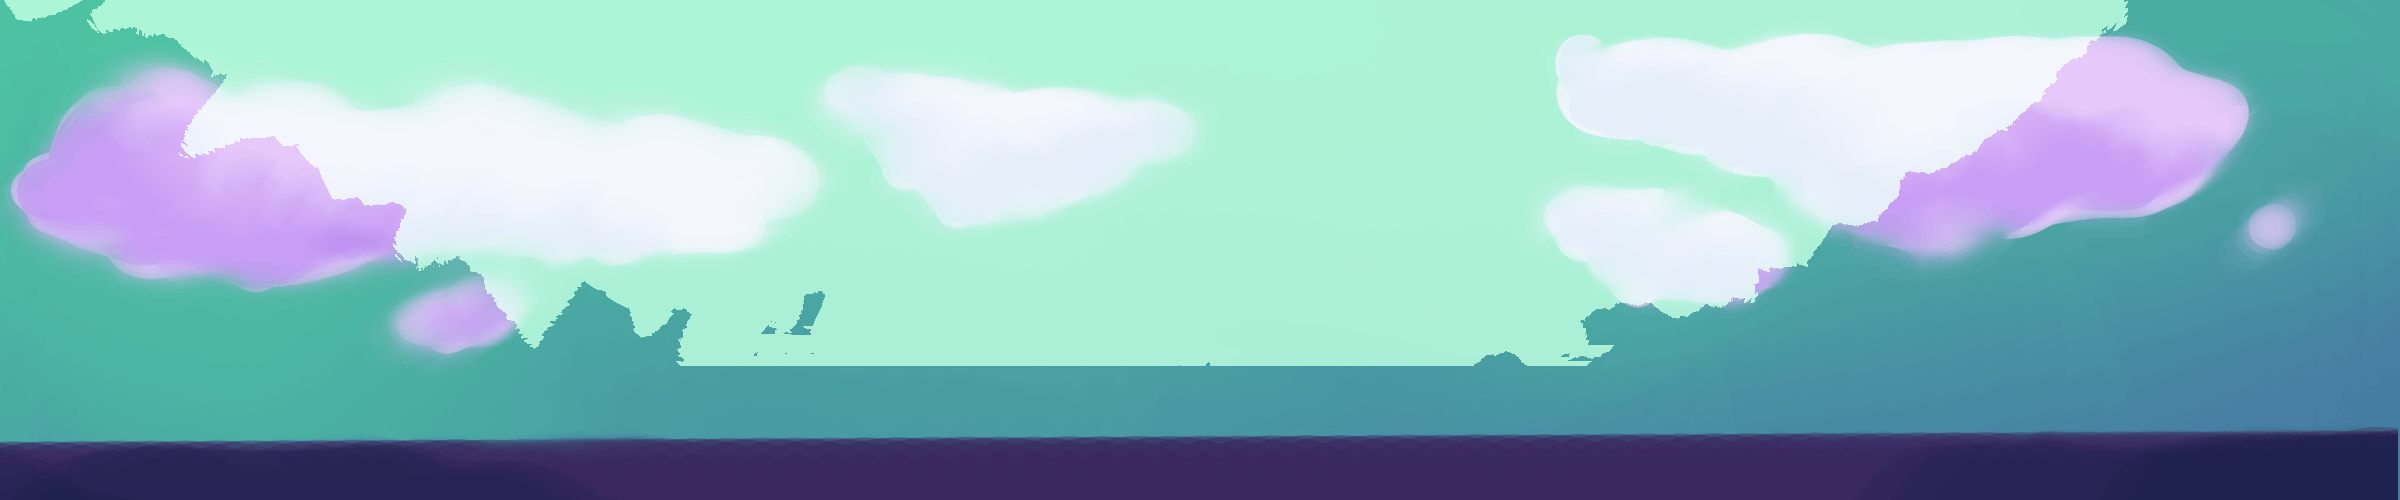
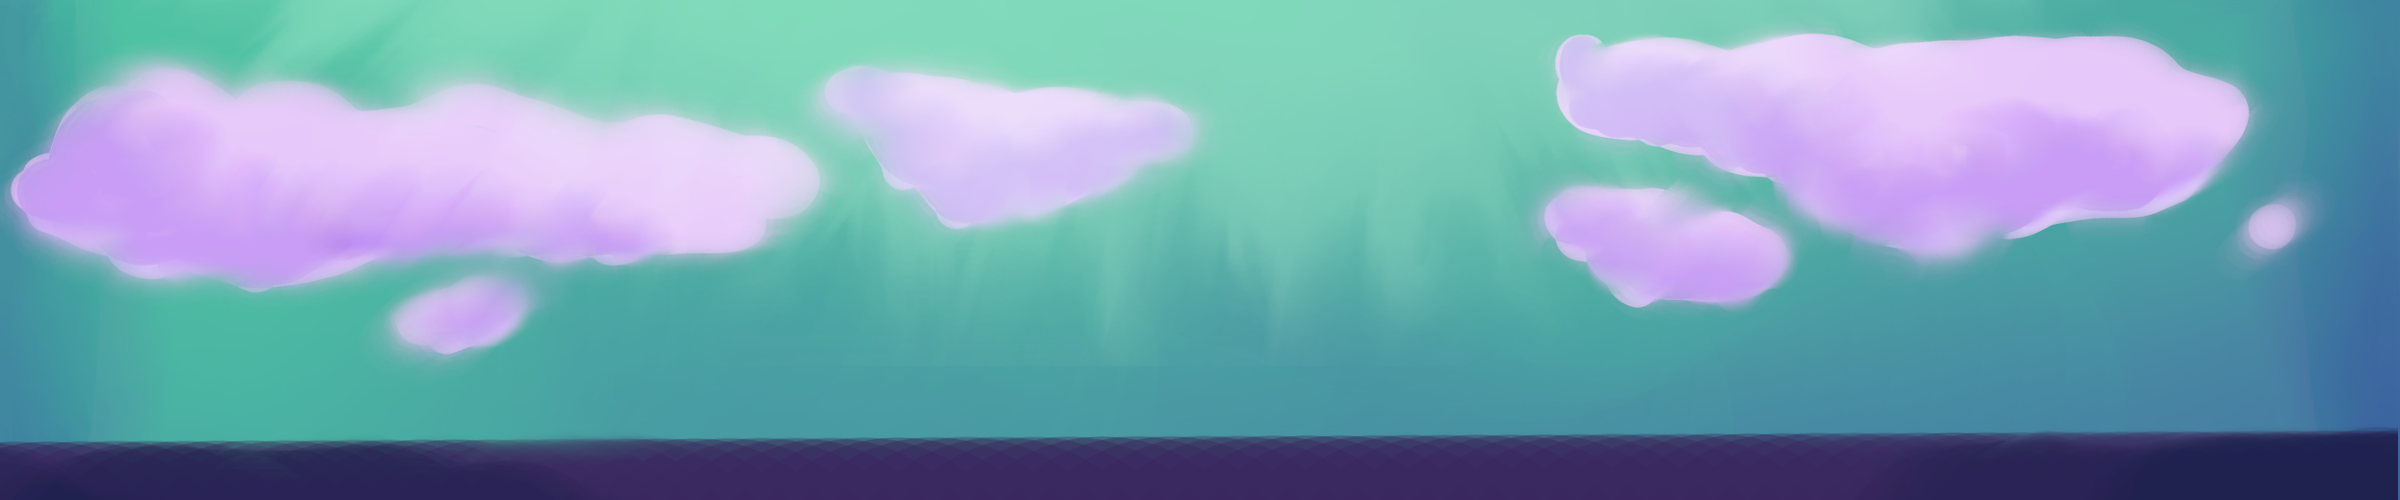
tela inicial

diff --git a/Tela Inicial/tela_inicial.py b/Tela Inicial/tela_inicial.py
@@ -13,37 +13,28 @@ pygame.display.set_caption("ExoKitchen")
 BASE_PATH = os.path.dirname(__file__)
 
 TITLE_PATH = os.path.join(BASE_PATH, "titulo.png")
-
-titulo_img = pygame.image.load(TITLE_PATH).convert_alpha()
-
-titulo_img = pygame.transform.scale(titulo_img, (540, 455))
-
-titulo_rect = titulo_img.get_rect(center=(SCREEN_WIDTH // 2, 180))
-
 BG_PATH = os.path.join(BASE_PATH, "background.png")
 
+titulo_img = pygame.image.load(TITLE_PATH).convert_alpha()
+titulo_img = pygame.transform.scale(titulo_img, (540, 455))
+titulo_rect = titulo_img.get_rect(center=(SCREEN_WIDTH // 2, 180))
+
+
 class Fundo:
-    def __init__ (self, x, y, bg_path):
-        self.rect = pygame.Rect(x, y)
-        self.bg = self.carrega_fundo(bg_path)
+    def __init__(self, bg_path):
+        self.bg = pygame.image.load(bg_path).convert_alpha()  # corrigido: () no convert_alpha
+        self.img_x = self.bg.get_width()
+        self.tiles = math.ceil(SCREEN_WIDTH / self.img_x) + 1  # +1 para cobrir a borda direita
+        self.scroll = 0  # estado persistente como atributo da instância
 
-    def carrega_fundo(self, path):
+    def atualizar(self):
+        self.scroll -= 0.5
+        if self.scroll <= -self.img_x:  # reseta o scroll quando a imagem sai completamente
+            self.scroll = 0
 
-        img = pygame.image.load(BG_PATH).convert_alpha
-        img_x = img.get_width()
-        img_rect = img.get_rect()
-        tiles = math.ceil(SCREEN_WIDTH / img_x)  
-        scroll = 0
-        for i in range(0, tiles):
-            display.blit(img, (i * img_x + scroll, 0))
-        return pygame.transform.scale(img, (self.rect.x, self.rect.y))
-
-        
-
-
-    def scroll(self, bg, rect):  
-         scroll -= 5
-
+    def desenhar(self, superficie):
+        for i in range(self.tiles):
+            superficie.blit(self.bg, (i * self.img_x + self.scroll, 0))
 
 
 class Botao:
@@ -63,15 +54,20 @@ class Botao:
     def clicado(self, pos):
         return self.rect.collidepoint(pos)
 
-botao_jogar   = Botao(300, 250, 200, 75, "Jogar",    os.path.join(BASE_PATH, "botão_jogar.png"))
+
+# instanciado ANTES do loop
+fundo = Fundo(BG_PATH)
+
+botao_jogar    = Botao(300, 250, 200, 75, "Jogar",    os.path.join(BASE_PATH, "botão_jogar.png"))
 botao_creditos = Botao(300, 335, 200, 75, "Créditos", os.path.join(BASE_PATH, "botão_créditos.png"))
-botao_sair    = Botao(300, 420, 200, 75, "Sair",     os.path.join(BASE_PATH, "botão_sair.png"))
+botao_sair     = Botao(300, 420, 200, 75, "Sair",     os.path.join(BASE_PATH, "botão_sair.png"))
 
 running = True
 
 while running:
-    display.fill((240, 240, 240))
-
+    # fundo substitui o display.fill — desenha antes de tudo
+    fundo.atualizar()
+    fundo.desenhar(display)
 
     display.blit(titulo_img, titulo_rect)
     botao_jogar.desenhar(display)
@@ -79,12 +75,10 @@ while running:
     botao_sair.desenhar(display)
 
     for event in pygame.event.get():
-
         if event.type == pygame.QUIT:
             running = False
 
         if event.type == pygame.MOUSEBUTTONDOWN:
-
             if botao_jogar.clicado(event.pos):
                 print("Iniciando jogo...")
 
@@ -96,3 +90,5 @@ while running:
                 running = False
 
     pygame.display.update()
+
+pygame.quit()
